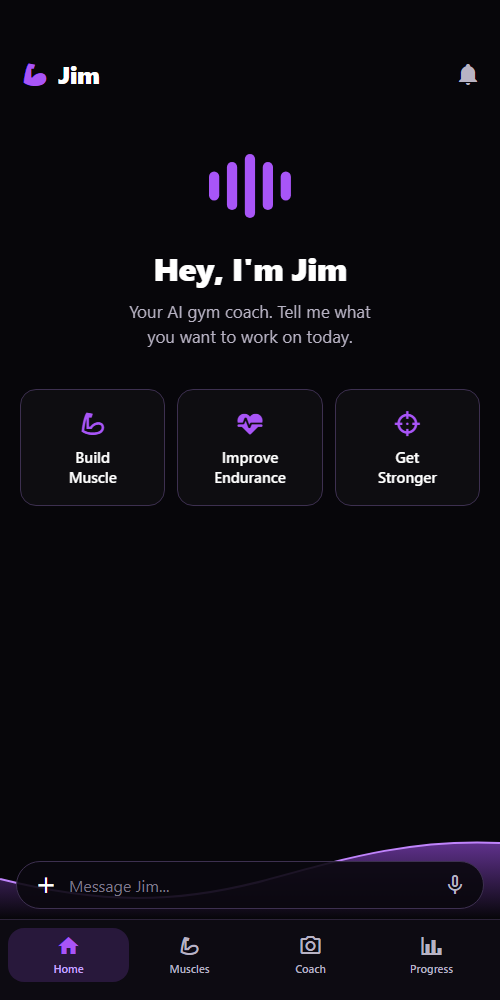
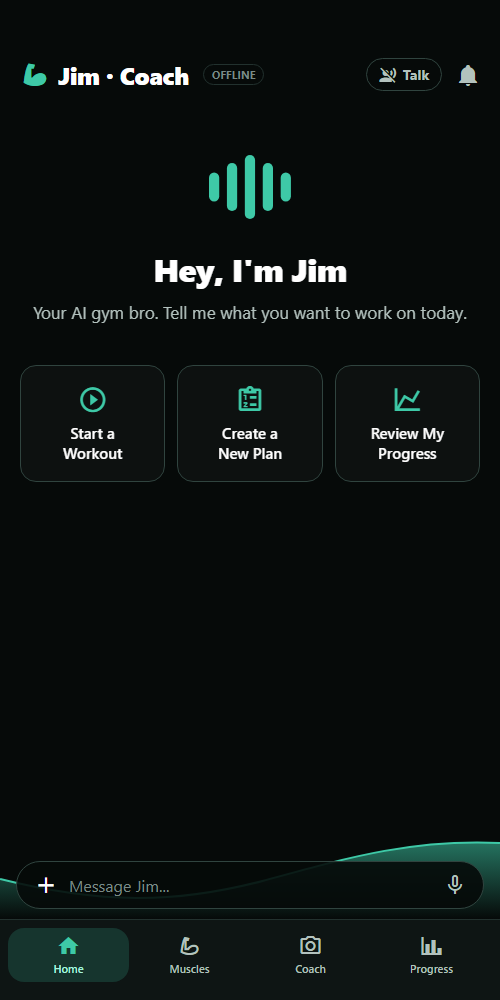
docs: Home/Muscles screenshots and AGENTS.md rows for team UI changes

diff --git a/AGENTS.md b/AGENTS.md
@@ -21,7 +21,7 @@ Last updated: 2026-11-14 (integration branch `feat/integration-v2`).
 ## How to verify
 | What | Command |
 |---|---|
-| App logic tests | `cd apps/expo && npm ci && npm test` (148 pass on integration-v2) |
+| App logic tests | `cd apps/expo && npm ci && npm test` (148 pass on integration-v2; 160 on feat/team-ui-home) |
 | Bundles | `cd apps/expo && npx expo export --platform android` (and `ios`) |
 | Vision lab tests (simulator + scoring) | `cd tools/vision-lab && npm ci && npm test` (15 pass) |
 | Real-video replay | `cd tools/vision-lab && node run.mjs` (needs Chrome + ffmpeg; videos downloaded per `labels/*.json` `source`) |
@@ -34,6 +34,9 @@ Legend: ✅ done + automated tests · 🧪 done, needs device/real-data validati
 | Feature | Status | Where | Tested how | Still needs |
 |---|---|---|---|---|
 | Four-screen UI (Home, Muscles, Coach, Progress) | ✅ main | `apps/expo/src/screens` | logic tests, web screenshots | — |
+| Seafoam accent theme (`T.accent*`, legacy `T.purple*` aliases), AA contrast | ✅ feat/team-ui-home | `theme.js`, `lib/palette.js` | contrast tests (accent 8.2–9.6:1, accentText 13.4–15.7:1) | device check |
+| Home options: Start a Workout (next plan day → Coach), Create a New Plan (goal picker), Review My Progress | 🧪 feat/team-ui-home | `HomeScreen.js`, `lib/homeActions.js` | 4 unit tests, web screenshot | device tap-through |
+| Muscles: arm groups fill the arm, invisible tap areas | 🧪 feat/team-ui-home | `components/BodyMap.js` | web screenshot | device tap check |
 | On-phone pose (MediaPipe Lite in WebView) | 🧪 main | `lib/poseHtml.js` | vision-lab uses same model/config | FPS on real phones |
 | Rep counter (curl, squat, press) | ✅ | `lib/reps.js`, `lib/live.js` | unit + 20-rep simulated sets 20/20 all lifts; real video 3/3 TP, 0 FP | real 15–20-rep phone clips |
 | Anti-false-rep guards: exercise-aware visibility, side lock, abort on tracking loss, curl arm-swing | ✅ PR #18 | `lib/live.js`, `lib/angles.js` | unit tests | 50° swing threshold on real video |
